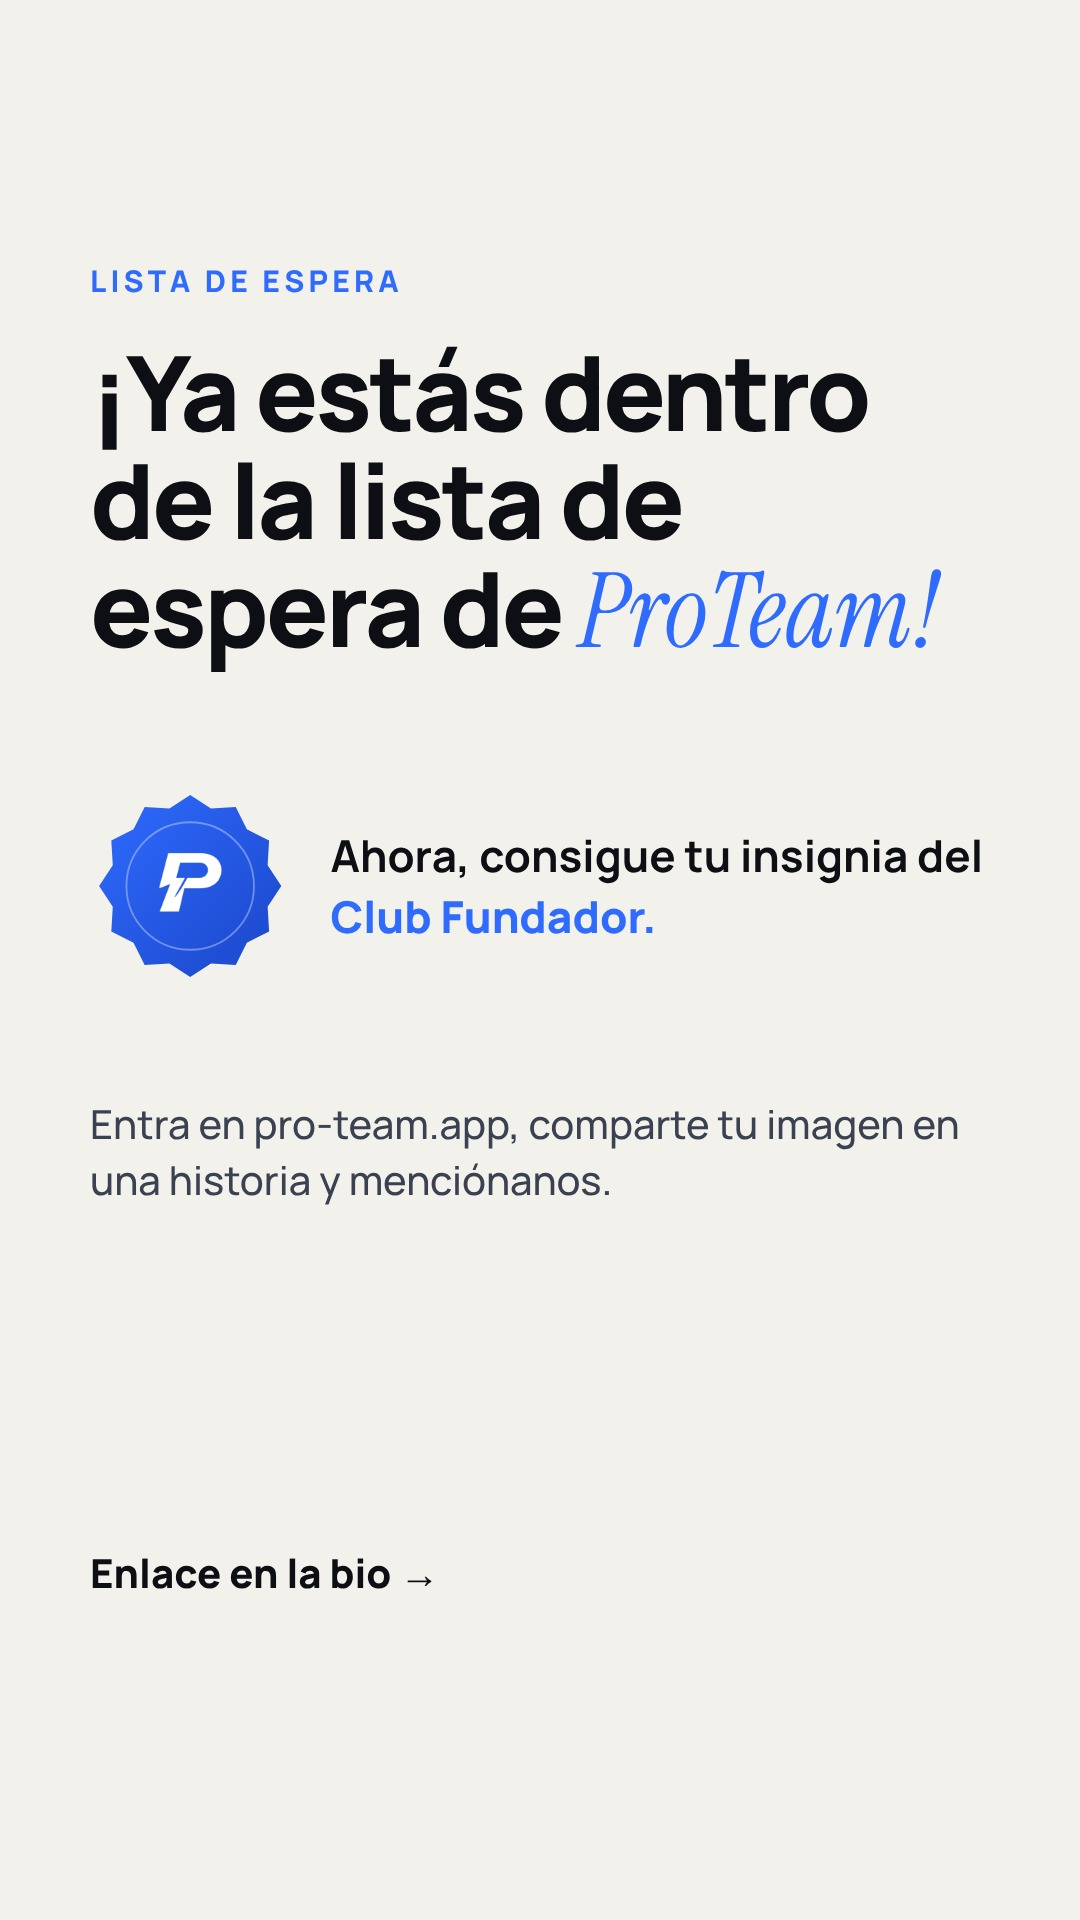
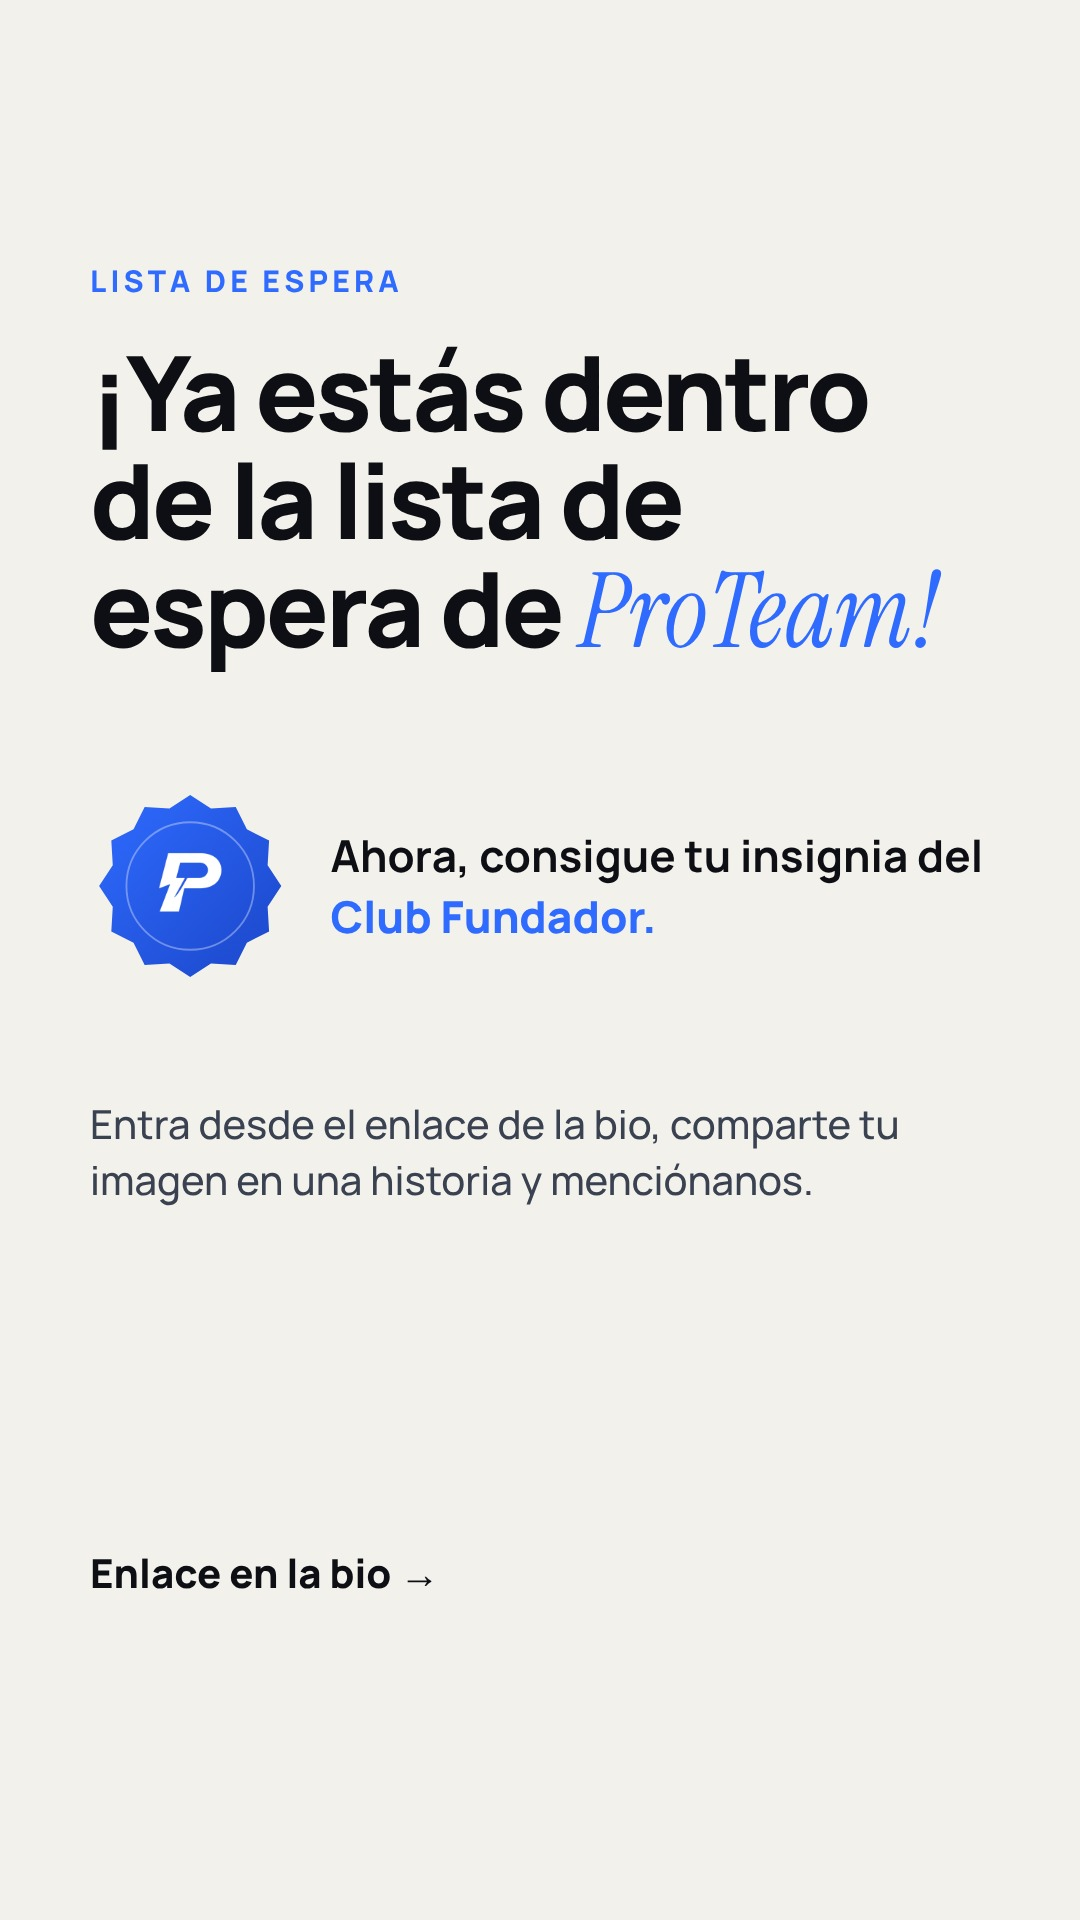
Encargos 20/11 8:00: c18s3 con «8 días», cola ajustada a la nueva distribución (c13 al dom 22, c10s3 al vie 27), pack de cocreación en la cola (c19s1–c19s7, borrador) y crítica del pack, el Club Fundador y los guiones POV

Changed region(s): [[0.0917, 0.5625, 0.8861, 0.625]]

diff --git a/tools/cocreacion1120/anuncio.html b/tools/cocreacion1120/anuncio.html
@@ -13,5 +13,5 @@
 <div style="display:flex;align-items:center;gap:40px;margin-top:70px"><svg width="300" height="300" viewBox="0 0 220 220" style=""><defs><linearGradient id="g2f6bff" x1="0" y1="0" x2="1" y2="1"><stop offset="0" stop-color="#2f6bff"/><stop offset="1" stop-color="#1b46c9"/></linearGradient></defs>
 <polygon points="110.0,10.0 132.8,25.0 160.0,23.4 172.2,47.8 196.6,60.0 195.0,87.2 210.0,110.0 195.0,132.8 196.6,160.0 172.2,172.2 160.0,196.6 132.8,195.0 110.0,210.0 87.2,195.0 60.0,196.6 47.8,172.2 23.4,160.0 25.0,132.8 10.0,110.0 25.0,87.2 23.4,60.0 47.8,47.8 60.0,23.4 87.2,25.0" fill="url(#g2f6bff)"/><circle cx="110" cy="110" r="70" fill="none" stroke="#fff" stroke-opacity=".35" stroke-width="2"/>
 <image href="mark-w.png" x="70" y="66" width="80" height="80"/></svg><div class="sm" style="font-size:44px;font-weight:700">Ahora, consigue tu insignia del <b style="color:#2f6bff">Club Fundador.</b></div></div>
-<div class="sm" style="margin-top:60px;font-size:40px;color:#3a4150">Entra en pro-team.app, comparte tu imagen en una historia y menciónanos.</div>
+<div class="sm" style="margin-top:60px;font-size:40px;color:#3a4150">Entra desde el enlace de la bio, comparte tu imagen en una historia y menciónanos.</div>
 <div style="margin-top:auto;font-weight:800;font-size:40px">Enlace en la bio →</div></div></div></body></html>

diff --git a/tools/stories1119/c.html b/tools/stories1119/c.html
@@ -6,7 +6,7 @@
 <div class="in">
 <div><span class="k tag">Balonmano · lista de espera</span></div>
 <div style="margin-top:auto">
-<div style="display:flex;align-items:flex-end;gap:28px"><div style="font-weight:800;font-size:300px;letter-spacing:-.05em;line-height:.8;color:#4f86ff">9</div><div style="font-weight:800;font-size:46px;line-height:1.1;padding-bottom:10px">días para<br>el sábado 28.</div></div>
+<div style="display:flex;align-items:flex-end;gap:28px"><div style="font-weight:800;font-size:300px;letter-spacing:-.05em;line-height:.8;color:#4f86ff">8</div><div style="font-weight:800;font-size:46px;line-height:1.1;padding-bottom:10px">días para<br>el sábado 28.</div></div>
 <h1 style="font-size:92px;margin-top:56px">¿Entrenas en base?<br><span class="sr" style="font-size:116px">La lista es para ti.</span></h1>
 <div class="sm" style="margin-top:30px;color:#c9ccd4">Apúntate hasta el 27 nov (23:59): el 28 entras con 3&nbsp;meses gratis y tu semana montada.</div>
 <div class="ft"><b>ProTeam:</b> la app para entrenadores de fútbol, baloncesto y balonmano. Enlace en la bio.</div>

diff --git a/tools/cocreacion1120/s2.html b/tools/cocreacion1120/s2.html
@@ -8,7 +8,7 @@
 .bar{position:absolute;background:#d9dde6;border-radius:8px}
 .blue{background:#2f6bff!important}
 .hole{position:absolute;left:0;right:0;top:1060px;height:560px}
-</style></head><body><div class="s paper"><div class="in"><div class="k">ProTeam · Club Fundador</div>
+</style></head><body><div class="s paper"><div class="in"><div class="k">ProTeam · la app para entrenadores</div>
 <h1 style="font-size:116px;margin-top:40px;letter-spacing:-.03em">Queremos construir ProTeam <span class="sr" style="letter-spacing:0">contigo.</span></h1>
 <div class="sm" style="font-size:44px;margin-top:50px;color:#3a4150">Cinco preguntas rápidas.<br>Tu opinión nos ayuda a decidir.</div>
 <div style="margin-top:auto;display:flex;align-items:center;gap:26px;font-weight:800;font-size:40px">Toca para empezar <svg width="120" height="40" viewBox="0 0 120 40"><path d="M0 20h108M90 4l18 16-18 16" stroke="#2f6bff" stroke-width="7" fill="none" stroke-linecap="round" stroke-linejoin="round"/></svg></div></div></div></body></html>

diff --git a/tools/cocreacion1120/gen.py b/tools/cocreacion1120/gen.py
@@ -30,7 +30,7 @@ def page(name,body,extra=''):
 page('s1','''<div class="s dark"><div style="position:absolute;left:50%;top:430px;transform:translateX(-50%);width:760px;height:760px;border-radius:50%;background:radial-gradient(circle,#2f6bff55,#2f6bff00 70%)"></div>
 <img src="proteam-mark.webp" style="position:absolute;left:50%;top:560px;transform:translateX(-50%);width:420px">
 <div class="in" style="justify-content:flex-end"><h1 style="font-size:132px;letter-spacing:-.04em">Entrenador,<br><span class="sr" style="letter-spacing:0">te necesitamos.</span></h1></div></div>''')
-page('s2','''<div class="s paper"><div class="in"><div class="k">ProTeam · Club Fundador</div>
+page('s2','''<div class="s paper"><div class="in"><div class="k">ProTeam · la app para entrenadores</div>
 <h1 style="font-size:116px;margin-top:40px;letter-spacing:-.03em">Queremos construir ProTeam <span class="sr" style="letter-spacing:0">contigo.</span></h1>
 <div class="sm" style="font-size:44px;margin-top:50px;color:#3a4150">Cinco preguntas rápidas.<br>Tu opinión nos ayuda a decidir.</div>
 <div style="margin-top:auto;display:flex;align-items:center;gap:26px;font-weight:800;font-size:40px">Toca para empezar <svg width="120" height="40" viewBox="0 0 120 40"><path d="M0 20h108M90 4l18 16-18 16" stroke="#2f6bff" stroke-width="7" fill="none" stroke-linecap="round" stroke-linejoin="round"/></svg></div></div></div>''')
@@ -61,7 +61,7 @@ page('share','''<div class="s dark"><div style="position:absolute;inset:0;backgr
 page('anuncio','''<div class="s paper"><div class="in"><div class="k">Lista de espera</div>
 <h1 style="font-size:104px;margin-top:36px;letter-spacing:-.03em">¡Ya estás dentro de la lista de espera de <span class="sr" style="letter-spacing:0">ProTeam!</span></h1>
 <div style="display:flex;align-items:center;gap:40px;margin-top:70px">'''+badge(size=300,glow=False)+'''<div class="sm" style="font-size:44px;font-weight:700">Ahora, consigue tu insignia del <b style="color:#2f6bff">Club Fundador.</b></div></div>
-<div class="sm" style="margin-top:60px;font-size:40px;color:#3a4150">Entra en pro-team.app, comparte tu imagen en una historia y menciónanos.</div>
+<div class="sm" style="margin-top:60px;font-size:40px;color:#3a4150">Entra desde el enlace de la bio, comparte tu imagen en una historia y menciónanos.</div>
 <div style="margin-top:auto;font-weight:800;font-size:40px">Enlace en la bio →</div></div></div>''')
 # Presentación del Club Fundador (sin precio ni condiciones sin aprobar)
 ben=[('Insignia verificada y numerada','Con tu número de fundador.'),('3 meses gratis','Para la lista de espera.'),('Soporte de tú a tú','Te acompañamos los 3 meses.'),('Tu voz en ProTeam','Votaciones solo para fundadores.'),('3 tickets regalo','Para tus amigos. Pronto, más.'),('Precio fundador','Condiciones muy pronto.')]

diff --git a/tools/stories1119/render.py b/tools/stories1119/render.py
@@ -3,7 +3,7 @@ import os, io
 from playwright.sync_api import sync_playwright
 from PIL import Image
 H=os.path.dirname(os.path.abspath(__file__)); R=os.path.dirname(os.path.dirname(H))
-out={'a':'st-1119-solo-o-con-segundo.jpg','b':'st-1119-tres-deportes-misma-semana.jpg','c':'st-1119-nueve-dias-lista.jpg'}
+out={'a':'st-1119-solo-o-con-segundo.jpg','b':'st-1119-tres-deportes-misma-semana.jpg','c':'st-1120-ocho-dias-lista.jpg'}
 with sync_playwright() as p:
     b=p.chromium.launch(); pg=b.new_page(viewport={'width':1080,'height':1920},device_scale_factor=1)
     for k,f in out.items():

diff --git a/agencia/criticas/2026-11-20-cocreacion-club-pov.md b/agencia/criticas/2026-11-20-cocreacion-club-pov.md
@@ -1,0 +1,37 @@
+# Crítica · pack de cocreación, Club Fundador y guiones POV — Andrés (05) · 20/11
+
+Encargo de Biel (t-mis20-05-critica). Tres cosas miradas en todo: menos ruido y más claridad; nada de escasez, precio ni condiciones inventadas; ninguna encuesta promete cambios.
+
+## 1. Pack de cocreación (mié 25 · ayuda y conexión) — 80/100 · pasa
+Encaje de fase: correcto (la solución empieza el mar 24; el mié 25 ya se puede enseñar la app en p1).
+
+| Pieza | Nota | Comentario |
+|---|---|---|
+| s1 «Entrenador, te necesitamos.» | 80 | Una idea, se lee en un segundo. |
+| s2 «Queremos construir ProTeam contigo.» | 80 | Corregido hoy: el rótulo decía «ProTeam · Club Fundador» (el Club no se ha presentado aún y quien llega de fuera no sabe qué es); ahora dice «ProTeam · la app para entrenadores». «Tu opinión nos ayuda a decidir» no promete cambios. |
+| p1 colores | 79 | B («Con lila») no existe en la app: es pregunta de preferencia y no promete nada. Las capturas se ven pequeñas; vale porque la encuesta ocupa la mitad de abajo. |
+| p2 menú | 80 | Clara sin leer. |
+| p3 insignia | 76 | Lleva «Diseño provisional»: bien. Rehacer con el prototipo de Biel antes del 25; si no llega, sale así. |
+| p4 buscador o filtros | 79 | El titular es el más largo del pack (tres líneas); aún se entiende. |
+| p5 visual o datos | 80 | Las cifras de la tarjeta B son de ejemplo dentro de un dibujo, no un dato que afirmemos. |
+
+Riesgo de salto: bajo en s1; medio de s2 a p5 (siete Stories seguidas: quien no contesta la primera no llega a la quinta). Para Samuel: comparar respuestas de p1 y p5.
+Condición para el jue 26: los resultados que se enseñen son los reales de Instagram, con sus porcentajes. Ninguna Story de resultados dice «lo cambiamos».
+
+## 2. Club Fundador
+| Pieza | Nota | Comentario |
+|---|---|---|
+| share.jpg (la comparte el usuario) | 80 | Lleva «pro-team.app» escrito. La marca dice «nunca URL en pantalla» para lo nuestro; esta imagen la publica el usuario y es la misma que está en la app, así que se deja. |
+| anuncio.jpg | 78 | Corregido hoy: decía «Entra en pro-team.app»; ahora «Entra desde el enlace de la bio». Es para quien ya está en la lista: no sale antes del jue 26. |
+| club.jpg (6 ventajas) | 76 · **no sale sin el visto bueno de Biel** | No da importe ni duración ni inventa plazas. Pero nombra «Precio fundador · condiciones muy pronto» y «3 tickets regalo»: la regla del 20/11 pide su aprobación. Recomendación: publicarla con cinco ventajas (sin «Precio fundador») hasta que tenga condiciones. No está en la cola. |
+
+## 3. Guiones POV (P1–P4)
+| Guion | Nota | Fase | Comentario |
+|---|---|---|---|
+| P1 «El domingo a las once» | 78 · pasa | problema | Hook con hora y escena. Es el mismo arranque que u50 («Domingo, once de la noche», programado el mié 25): no deben salir el mismo día ni seguidos. Le falta un motivo para guardar o enviar («mándaselo a tu segundo»). |
+| P2 «Cuatro sitios, un equipo» | 74 · **no pasa tal cual** | problema → nutrición | Los primeros 8 s repiten u68 («Cuatro sitios para un solo equipo», hoy 13:30) y c18. Lo nuevo es el esquema temporada › bloques › semana › sesión (s 16–33). Arreglo: abrir con el esquema dibujado en la libreta y dejar los cuatro objetos en una frase. 40 s: recortar a 35. |
+| P3 «Así lo hago ahora» | 80 · pasa | solución (desde el mar 24) | Solo funciones comprobadas. Depende de las capturas nuevas de Pau y de que R4 confirme cada pantalla. 45 s: quitar un plano. |
+| P4 «Te cuento con los dedos» | 76 · **no sale sin el visto bueno de Biel** | Club Fundador (jue 26) | Nombra las invitaciones. Corregido hoy: «antes del 27» → «hasta el 27». «Votas en lo que construimos» vale si en ningún sitio se dice que el voto cambia la app. |
+
+Para los cuatro: la regla dice que todo Reel lleva la voz de Mateo; el guion admite la voz de Biel si la graba. Decidido: si Biel manda voz, se usa la suya (es su formato y su excepción); si no, Mateo. Su nombre no se dice ni se escribe.
+Riesgo de salto: P1 bajo, P2 medio (ya visto), P3 medio (el «antes» dura 4 s), P4 bajo.

diff --git a/stories/cocreacion1120/LEEME.md b/stories/cocreacion1120/LEEME.md
@@ -22,3 +22,7 @@ Diseñadas, **sin publicar**. Las sube Biel a mano, porque las encuestas nativas
 Las fuentes están en `tools/cocreacion1120/` (`gen.py` y `render.py`). Cuando llegue el prototipo de la insignia, se cambia la función `badge()` y se vuelve a renderizar todo.
 
 Ninguna encuesta cambia la app por sí sola. Se usan para escuchar; solo se propondrá un cambio si la demanda es muy clara y después de analizarla.
+
+
+## 20/11 · en la cola
+La serie está en `queue.json` como c19s1–c19s7 (mié 25, 14:30 en adelante, en borrador: se sube a mano). Sustituye a c16s, c16s2 y c16s3. Cambios tras la crítica de Andrés (`agencia/criticas/2026-11-20-cocreacion-club-pov.md`): s2 dice «ProTeam · la app para entrenadores» y `anuncio.jpg` dice «Entra desde el enlace de la bio». `club.jpg` no está en la cola: espera el visto bueno de Biel.

diff --git a/agencia/guiones/2026-11-20-pov-serie-camara-en-mano.md b/agencia/guiones/2026-11-20-pov-serie-camara-en-mano.md
@@ -77,7 +77,7 @@
 
 | s | Imagen | Voz | Gráfico |
 |---|---|---|---|
-| 0–3 | Puño cerrado delante de la pantalla | «Si entras en la lista de espera antes del 27, esto es lo que tienes.» | g07 |
+| 0–3 | Puño cerrado delante de la pantalla | «Si entras en la lista de espera hasta el 27, esto es lo que tienes.» | g07 |
 | 3–8 | Un dedo | «Uno: tu insignia de fundador, con tu número.» | g06-dedo1 |
 | 8–13 | Dos dedos | «Dos: tres meses gratis.» | g06-dedo2 |
 | 13–18 | Tres dedos | «Tres: una persona que te acompaña de tú a tú esos meses.» | g06-dedo3 |
